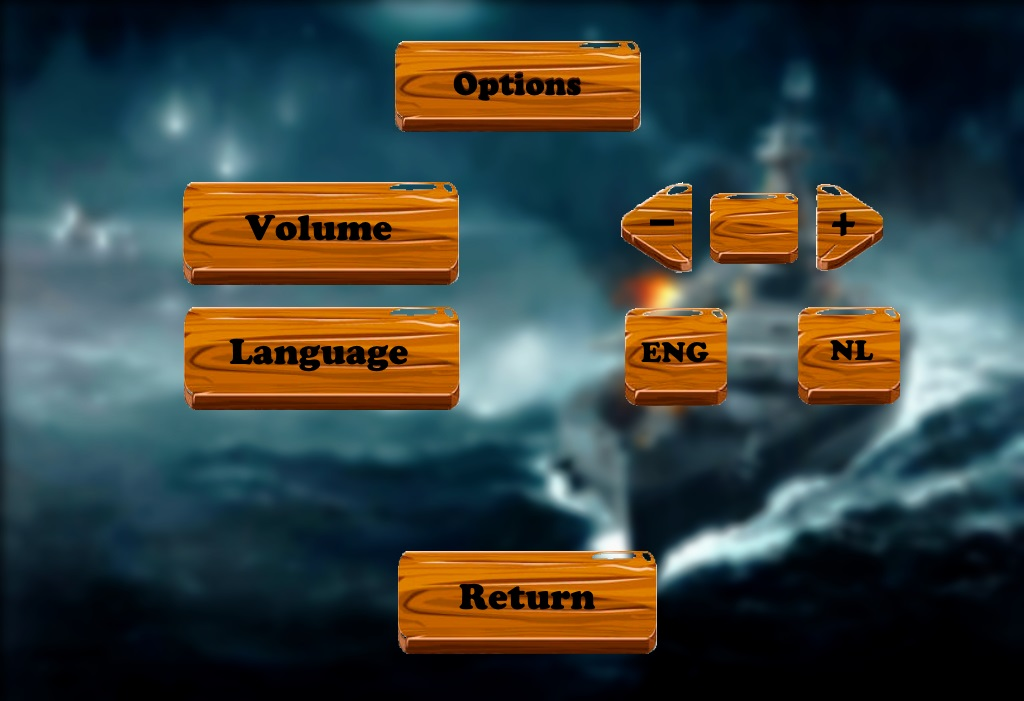
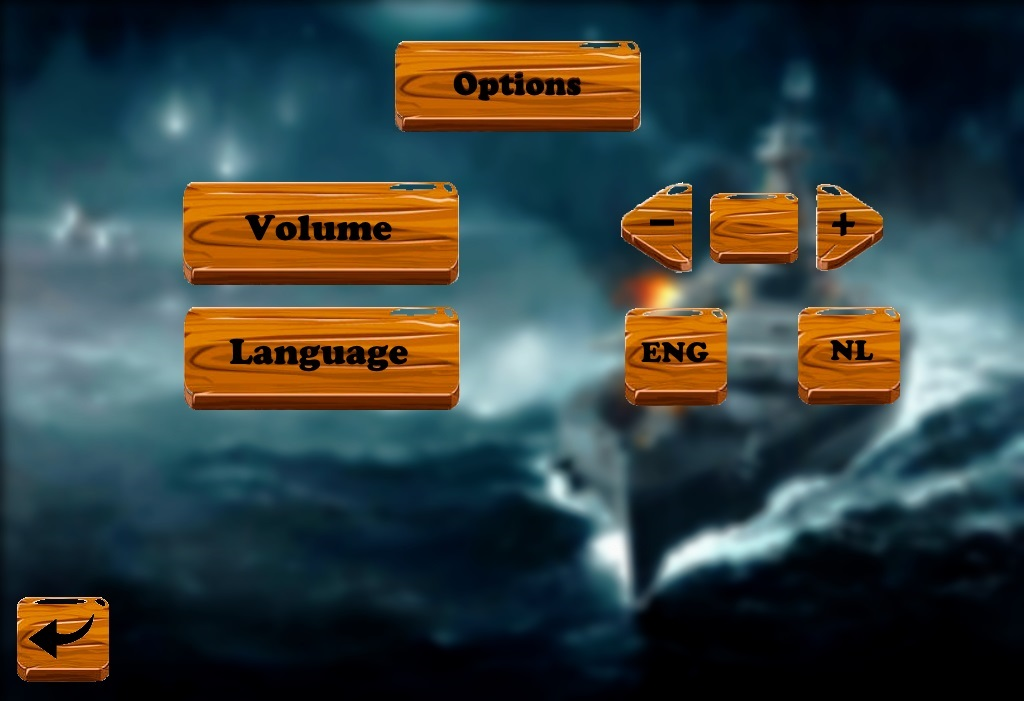
Merge branch 'master' of https://github.com/sinoz/boat-wars
# Conflicts:
#	src/screens/experience.py
#	src/screens/highscores.py
#	src/screens/instructions.py
#	src/screens/introduction.py
#	src/screens/pregame/pregame_instructions.py
#	src/screens/pregame/pregame_introduction.py
#	src/screens/pregame/pregame_rules.py
#	src/screens/rules.py
#	src/screens/termination.py

Changed region(s): [[0.375, 0.7789, 0.6562, 0.9586], [0.0, 0.8388, 0.125, 0.9886]]

diff --git a/src/screens/settings.py b/src/screens/settings.py
@@ -4,6 +4,7 @@ import widget.button
 
 import screens.main_menu
 import screens.canvas
+import screens.sound as sound
 
 class SettingsScreen:
     def __init__(self, game):
@@ -12,7 +13,7 @@ class SettingsScreen:
         self.image = pygame.image.load('resources/screens/' + game.language + '/options_menu.jpg')
 
         # Return button
-        self.return_button = widget.button.Button((406, 555), (248, 94), self.return_to_main)
+        self.return_button = widget.button.Button((17, 595), (91, 75), self.return_to_main)
 
         # Language buttons
         self.change_lang_dutch = widget.button.Button((801, 312), (95, 85), self.change_lang_to_dutch)
@@ -36,31 +37,31 @@ class SettingsScreen:
         self.dec_volume.on_event(event)
 
     # Reacts to the user pressing on the 'increase volume' button
-    def increase_volume(self):
+    def increase_volume(self, x, y, cursor):
+        sound.Plopperdeplop.tune(self, 'click')
         self.game.set_volume(self.game.volume + 25)
-        self.click_sound()
 
     # Reacts to the user pressing on the 'decrease volume' button
-    def decrease_volume(self):
+    def decrease_volume(self, x, y, cursor):
+        sound.Plopperdeplop.tune(self, 'click')
         self.game.set_volume(self.game.volume - 25)
-        self.click_sound()
 
     # Reacts to the user pressing on the english language toggling button
     def change_lang_to_english(self, x, y, cursor):
+        sound.Plopperdeplop.tune(self, 'click')
         self.game.change_language(screens.canvas.English)
         self.game.set_screen(SettingsScreen(self.game))
-        self.click_sound()
 
     # Reacts to the user pressing on the dutch language toggling button
     def change_lang_to_dutch(self, x, y, cursor):
+        sound.Plopperdeplop.tune(self, 'click')
         self.game.change_language(screens.canvas.Dutch)
         self.game.set_screen(SettingsScreen(self.game))
-        self.click_sound()
 
     # Reacts to the user pressing the 'return' button
     def return_to_main(self, x, y, cursor):
+        sound.Plopperdeplop.tune(self, 'click')
         self.game.set_screen(screens.main_menu.MainScreen(self.game))
-        self.click_sound()
 
     # Draws the components of this 'settings' screen.
     def draw(self):
@@ -68,9 +69,3 @@ class SettingsScreen:
 
         label = self.font.render(str(self.game.volume), 1, (0, 0, 0))
         self.game.surface.blit(label, (715, 201))
-
-    # Plays click sound
-    def click_sound(self):
-        Click = pygame.mixer.Sound('resources/mp3/Click.ogg')
-        pygame.mixer.Sound.play(Click)
-        Click.set_volume(0.8)

diff --git a/src/screens/highscores.py b/src/screens/highscores.py
@@ -1,8 +1,9 @@
 import pygame
 
+import db.db_service
 import screens.sound as sound
+
 import widget.button
-from db import db_service
 
 HighscoresFetchQuery = 'SELECT name, score FROM players ORDER BY score DESC LIMIT 10;'
 
@@ -11,17 +12,14 @@ class HighscoresScreen:
         self.image = pygame.image.load('resources/screens/' + game.language + '/highscores.jpg')
         self.game = game
         self.prev = prev
-
-        self.button = widget.button.Button((20, 604), (88, 72), self.return_to_prev)
         self.font = pygame.font.SysFont("monospace", 42)
-        self.scores = db_service.query(HighscoresFetchQuery)
+        self.return_button = widget.button.Button((16, 600), (93, 77), self.return_to_main)
+        self.scores = db.db_service.query(HighscoresFetchQuery)
+        self.play_music()
 
+    # Plays the appropriate music for this screen
+    def play_music(self):
         sound.Plopperdeplop.music(self, 'high_scores')
-
-        # The high scores music playing code
-        pygame.mixer.music.load('resources/mp3/High_scores.mp3')
-        pygame.mixer.music.play(-1, 0.0)
-        pygame.mixer.music.set_volume(self.game.volume)
 
     # Draws the components of this highscores screen.
     def draw(self):
@@ -33,14 +31,14 @@ class HighscoresScreen:
             self.game.surface.blit(label, (480, 190 + offset))
             offset += 78
 
-    # Reacts to the user pressing on the return button
-    def return_to_prev(self, x, y, cursor):
-        sound.Plopperdeplop.tune(self, 'click')
+    # TODO
+    def return_to_main(self, x, y, cursor):
+        sound.Plopperdeplop.music(self, 'intro')
         self.game.set_screen(self.prev)
 
     # Handles an event.
     def on_event(self, event):
-        self.button.on_event(event)
+        self.return_button.on_event(event)
 
     # Updates this highscores screen.
     def update(self):

diff --git a/src/widget/text_field.py b/src/widget/text_field.py
@@ -1,14 +1,13 @@
 import pygame
 
 class TextField:
-    def __init__(self, surface, point, dimension, color, text=""):
-        self.surface = surface
+    def __init__(self, game, point, dimension, color, text=""):
+        self.game = game
         self.point = point
         self.dimension = dimension
         self.color = color
         self.font = pygame.font.SysFont("monospace", 30)
         self.text = text
-        self.active = False
 
     def on_event(self, event):
         if event.type == pygame.MOUSEBUTTONDOWN:
@@ -24,8 +23,9 @@ class TextField:
             end_x = offset_x + self.dimension[0]
             end_y = offset_y + self.dimension[1]
 
-            self.active = click_x >= offset_x and click_y >= offset_y and click_x <= end_x and click_y <= end_y
-        elif event.type == pygame.KEYDOWN:
+            if click_x >= offset_x and click_y >= offset_y and click_x <= end_x and click_y <= end_y:
+                self.game.activeTextField = self
+        elif event.type == pygame.KEYDOWN and self.game.activeTextField is self:
             if event.key != pygame.K_BACKSPACE:
                self.add_character(chr(event.key))
             else:
@@ -33,7 +33,7 @@ class TextField:
 
     def draw(self):
         label = self.font.render(self.text, 1, self.color)
-        self.surface.blit(label, self.point)
+        self.game.surface.blit(label, self.point)
 
     def add_character(self, character):
         self.text += character

diff --git a/src/screens/instructions.py b/src/screens/instructions.py
@@ -9,7 +9,6 @@ class InstructionsScreen:
     def __init__(self, game):
         self.game = game
         self.image = pygame.image.load('resources/screens/' + game.language + '/instructions.jpg')
-        sound.Plopperdeplop.music(self, 'intro')
 
     # Updates this 'settings' screen.
     def update(self):
@@ -26,11 +25,14 @@ class InstructionsScreen:
 
             print(x, y)
 
-            if x >= 106 and y >= 223 and x <= 400 and x <= 304:
+            if x >= 79 and y >= 290 and x <= 395 and x <= 363:
+                sound.Plopperdeplop.tune(self, 'click')
                 self.game.set_screen(screens.introduction.IntroductionScreen(self.game, self))
-            elif x >= 623 and y >= 218 and x <= 916 and y <= 298:
-                self.game.set_screen(screens.rules.RulesScreen(self.game, self))
-            elif x >= 395 and y >= 530 and x <= 652 and y <= 614:
+            elif x >= 622 and y >= 284 and x <= 935 and y <= 362:
+                sound.Plopperdeplop.tune(self, 'click')
+                self.game.set_screen(screens.rules.RulesScreen(self.game))
+            elif x >= 20 and y >= 598 and x <= 105 and y <= 664:
+                sound.Plopperdeplop.tune(self, 'click')
                 self.game.set_screen(screens.main_menu.MainScreen(self.game))
 
     # Draws the components of this 'instructions' screen.

diff --git a/src/screens/termination.py b/src/screens/termination.py
@@ -1,5 +1,6 @@
 import pygame
 import widget.button
+import screens.sound as sound
 
 class ExitScreen:
     def __init__(self, game, prev=None):
@@ -20,20 +21,14 @@ class ExitScreen:
 
     # Reacts to the user confirming to close the application
     def close_app(self, x, y, cursor):
+        sound.Plopperdeplop.tune(self, 'click')
         self.game.quitGame()
-        self.click_sound()
 
     # Reacts to the user confirming to return to the previous screen
     def return_to_prev(self, x, y, cursor):
+        sound.Plopperdeplop.tune(self, 'click')
         self.game.set_screen(self.prev)
-        self.click_sound()
 
     # Draws the components of this 'termination' screen.
     def draw(self):
         self.game.surface.blit(self.image, (0, 0))
-
-    # Plays click sound
-    def click_sound(self):
-        Click = pygame.mixer.Sound('resources/mp3/Click.ogg')
-        pygame.mixer.Sound.play(Click)
-        Click.set_volume(0.8)

diff --git a/src/screens/game/session.py b/src/screens/game/session.py
@@ -3,7 +3,8 @@ import widget.text_field
 class SessionScreen:
     def __init__(self, game):
         self.game = game
-        self.p1_name = widget.text_field.TextField(game.surface, (100, 100), (250, 250), (0, 255, 0), "Typ iets dan")
+        self.p1_name = widget.text_field.TextField(game, (100, 100), (250, 250), (0, 255, 0), "Naam van speler 1")
+        self.p2_name = widget.text_field.TextField(game, (100, 300), (250, 250), (0, 255, 0), "Naam van speler 2")
 
     # Updates this 'session' screen.
     def update(self):
@@ -12,7 +13,9 @@ class SessionScreen:
     # Handles an event.
     def on_event(self, event):
         self.p1_name.on_event(event)
+        self.p2_name.on_event(event)
 
     # Draws the components of this 'session' screen.
     def draw(self):
         self.p1_name.draw()
+        self.p2_name.draw()

diff --git a/src/screens/introduction.py b/src/screens/introduction.py
@@ -7,7 +7,7 @@ class IntroductionScreen:
         self.game = game
         self.prev = prev
         self.image = pygame.image.load('resources/screens/' + game.language + '/introduction.jpg')
-        self.button1 = widget.button.Button((685, 539), (316, 79), lambda x, y, cursor: game.set_screen(prev))
+        self.return_button = widget.button.Button((685, 539), (316, 79), lambda x, y, cursor: game.set_screen(prev))
 
     # Updates this 'introduction' screen.
     def update(self):
@@ -15,7 +15,7 @@ class IntroductionScreen:
 
     # Handles an event.
     def on_event(self, event):
-        self.button1.on_event(event)
+        self.return_button.on_event(event)
 
     # Draws the components of this 'introduction' screen.
     def draw(self):

diff --git a/src/screens/rules.py b/src/screens/rules.py
@@ -1,5 +1,8 @@
 import pygame
 
+import screens.instructions
+import screens.sound as sound
+
 class RulesScreen:
     def __init__(self, game, prev=None):
         self.game = game
@@ -20,6 +23,8 @@ class RulesScreen:
             y = mouse_pos[1]
             if x >= 384 and y >= 587 and x <= 683 and y <= 667:
                 self.game.set_screen(self.prev)
+                sound.Plopperdeplop.tune(self, 'click')
+                self.game.set_screen(screens.instructions.InstructionsScreen(self.game))
 
     # Draws the components of this 'rules' screen.
     def draw(self):

diff --git a/src/widget/button.py b/src/widget/button.py
@@ -1,4 +1,5 @@
 import pygame
+import screens.sound as sound
 
 class Button:
     def __init__(self, point, dimension, listener):
@@ -26,6 +27,7 @@ class Button:
             print(click_x, click_y)
 
             if click_x >= offset_x and click_y >= offset_y and click_x <= end_x and click_y <= end_y:
+                sound.Plopperdeplop.tune(self, 'click')
                 self.listener(click_x, click_y, mouse_cursor)
 
     def draw(self):

diff --git a/src/screens/main_menu.py b/src/screens/main_menu.py
@@ -11,7 +11,8 @@ class MainScreen:
     def __init__(self, game):
         self.game = game
         self.image = pygame.image.load('resources/screens/' + game.language + '/main_menu.jpg')
-        sound.Plopperdeplop.music(self, 'intro')
+        if sound.current_song != 'intro':
+            sound.Plopperdeplop.music(self, 'intro')
 
     # Draws the components of this main menu screen.
     def draw(self):

diff --git a/src/screens/pregame/pregame_introduction.py b/src/screens/pregame/pregame_introduction.py
@@ -10,7 +10,6 @@ class PreGameIntroductionScreen:
         self.game = game
         self.image = pygame.image.load('resources/screens/' + game.language + '/pregame/pregame_introduction.jpg')
         self.button1 = widget.button.Button((684, 542), (319, 77), self.xd)
-        sound.Plopperdeplop.music(self, 'intro')
 
     # Updates this 'pregame introduction' screen.
     def update(self):

diff --git a/src/screens/canvas.py b/src/screens/canvas.py
@@ -15,7 +15,8 @@ class Canvas:
         self.running = running
         self.screen = None
         self.language = English
-        self.volume = 0
+        self.volume = 100
+        self.activeTextField = None
         self.grid = play.grid.Grid(surface, 20, 20)
 
         # NOTE: if you're working on a separate screen (such as hiscores, you can simply
